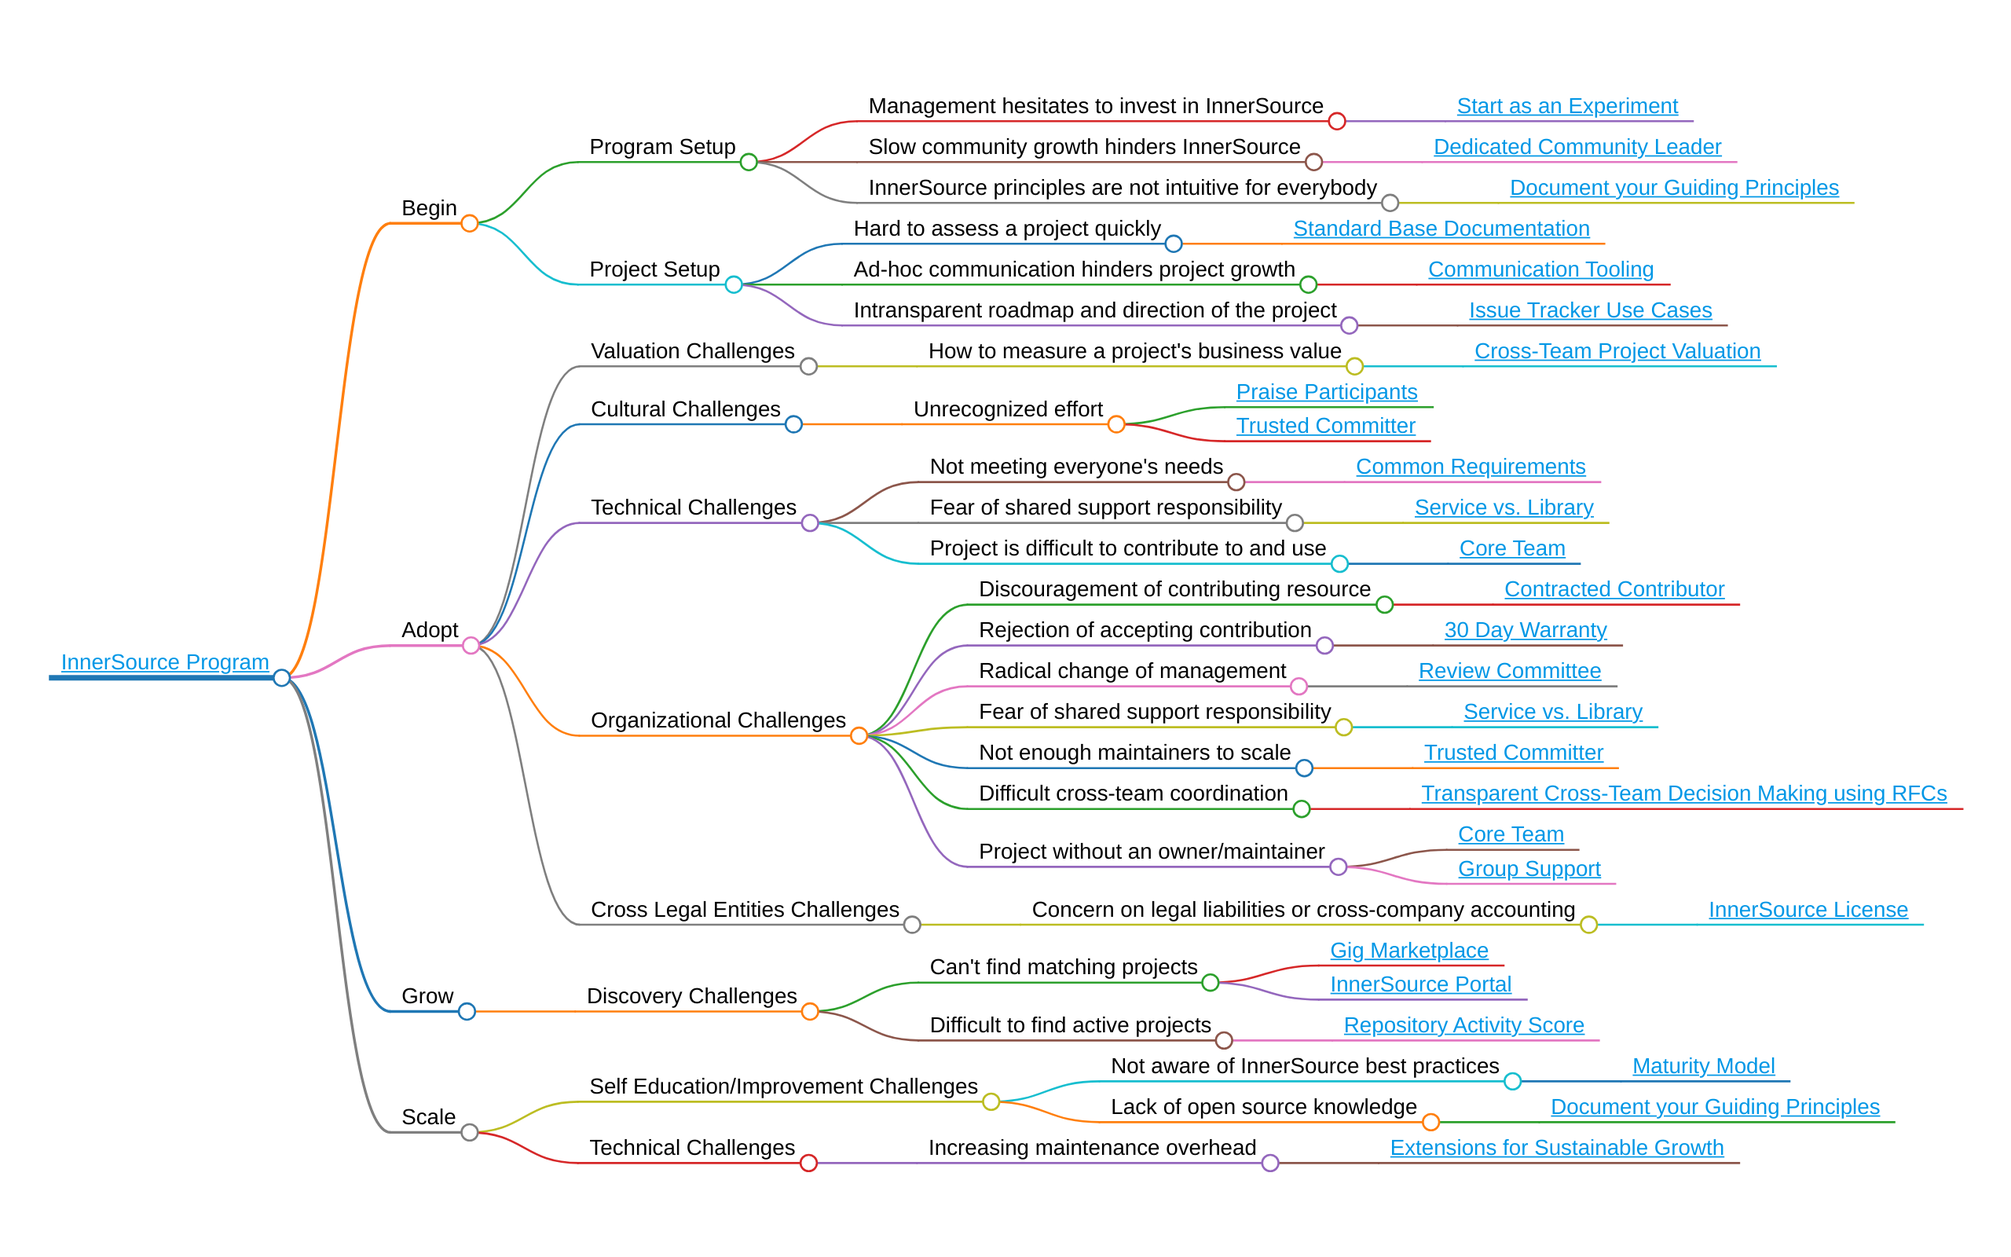
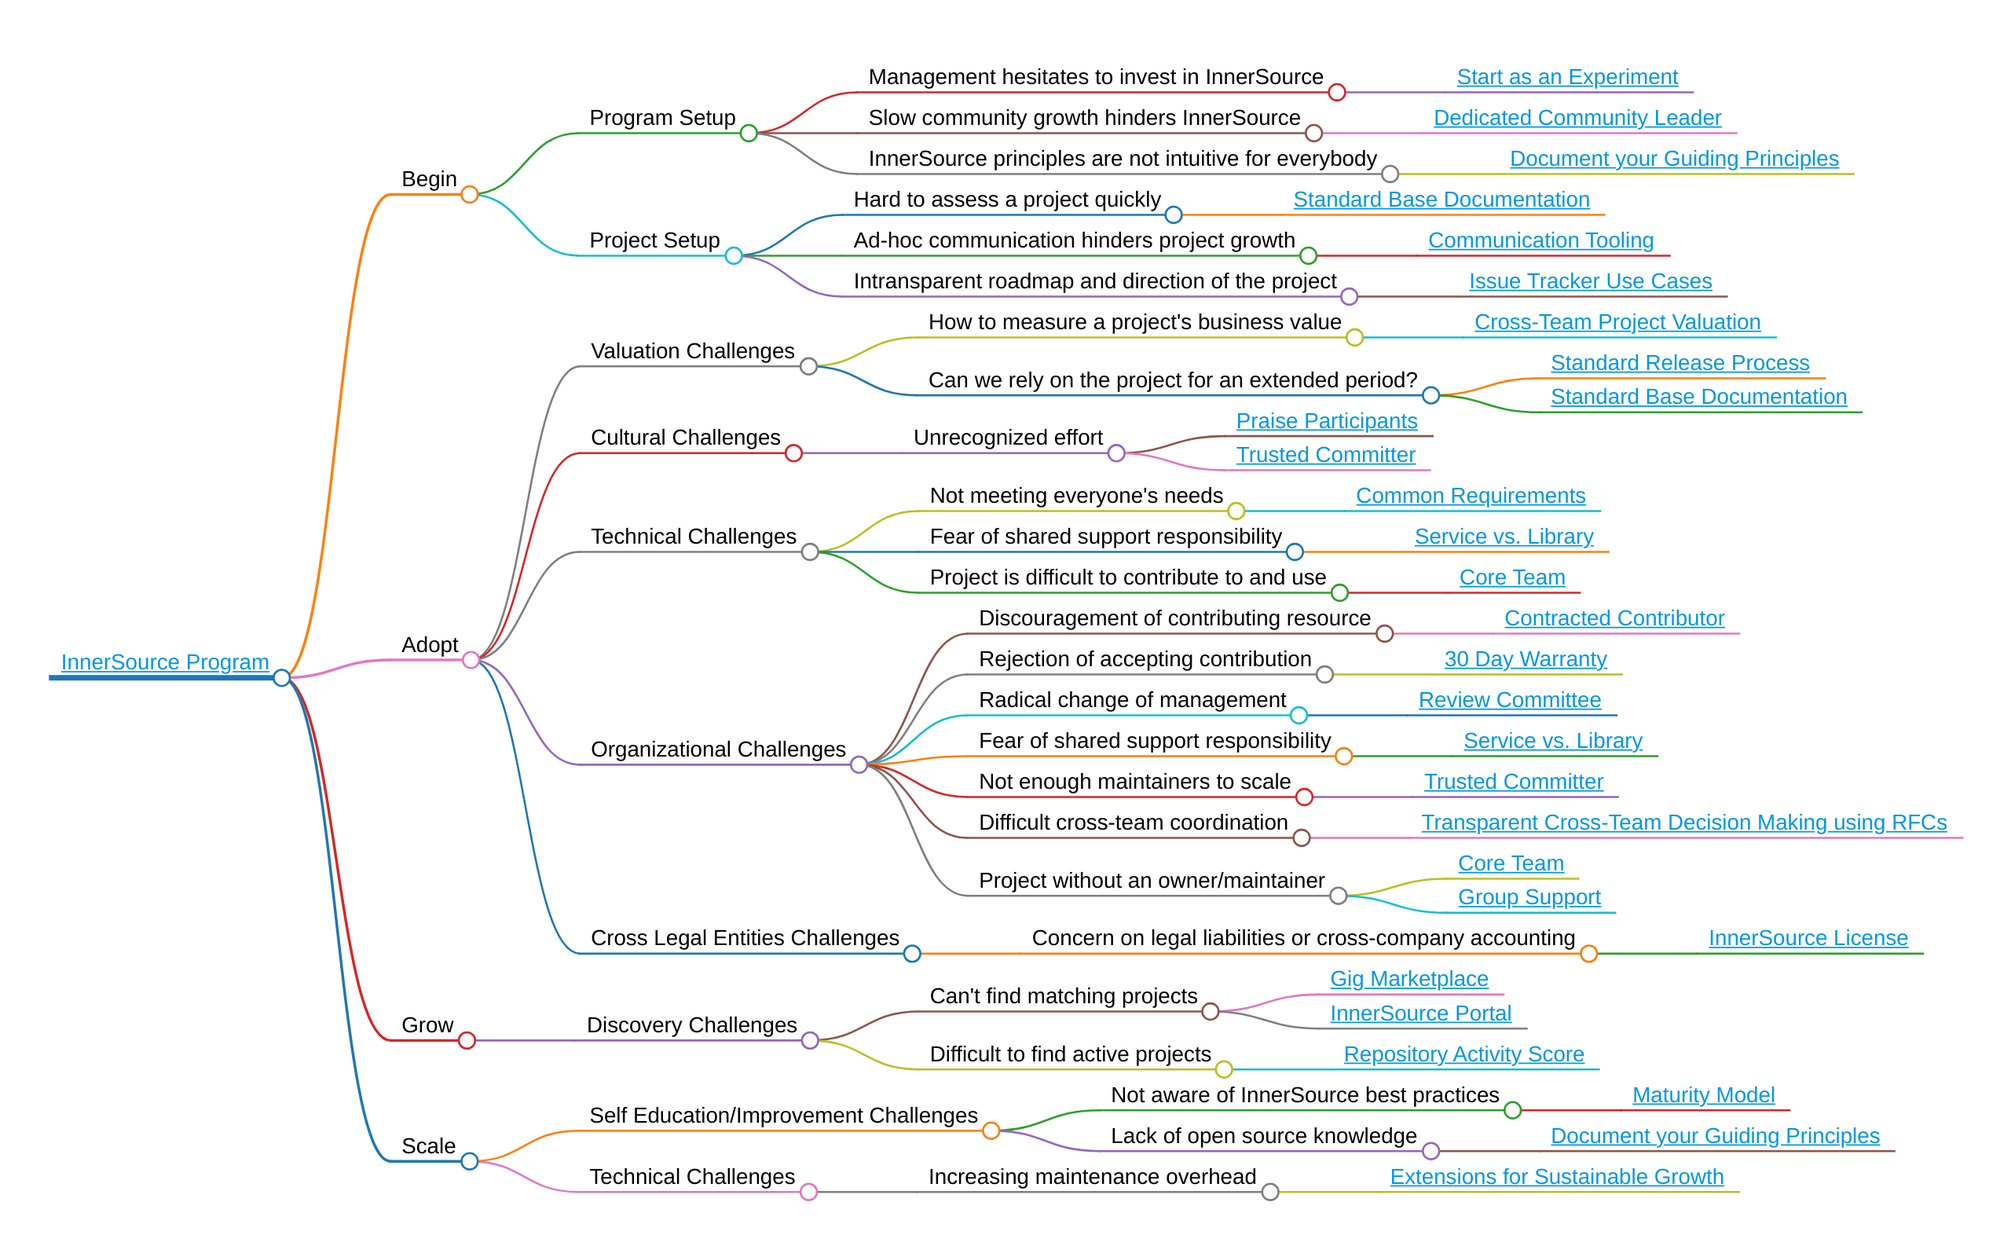
Re-creating markmap and screenshot

diff --git a/pattern-categorization/innersource-program-mind-map.html b/pattern-categorization/innersource-program-mind-map.html
@@ -23,6 +23,6 @@
 <script src="https://cdn.jsdelivr.net/npm/d3@6.7.0"></script><script src="https://cdn.jsdelivr.net/npm/markmap-view@0.13.3"></script><script>((getMarkmap, getOptions, root, jsonOptions) => {
         const markmap = getMarkmap();
         window.mm = markmap.Markmap.create('svg#mindmap', (getOptions || markmap.deriveOptions)(jsonOptions), root);
-      })(() => window.markmap,null,{"type":"heading","depth":1,"payload":{"lines":[0,1]},"content":"<a href=\"https://patterns.innersourcecommons.org/toc\">InnerSource Program</a>","children":[{"type":"heading","depth":2,"payload":{"lines":[2,3]},"content":"Begin","children":[{"type":"heading","depth":3,"payload":{"lines":[4,5]},"content":"Program Setup","children":[{"type":"heading","depth":4,"payload":{"lines":[6,7]},"content":"Management hesitates to invest in InnerSource","children":[{"type":"heading","depth":5,"payload":{"lines":[8,9]},"content":"<a href=\"https://patterns.innersourcecommons.org/p/start-as-experiment\">Start as an Experiment</a>"}]},{"type":"heading","depth":4,"payload":{"lines":[10,11]},"content":"Slow community growth hinders InnerSource","children":[{"type":"heading","depth":5,"payload":{"lines":[12,13]},"content":"<a href=\"https://patterns.innersourcecommons.org/p/dedicated-community-leader\">Dedicated Community Leader</a>"}]},{"type":"heading","depth":4,"payload":{"lines":[14,15]},"content":"InnerSource principles are not intuitive for everybody","children":[{"type":"heading","depth":5,"payload":{"lines":[16,17]},"content":"<a href=\"https://patterns.innersourcecommons.org/p/document-your-guiding-principles\">Document your Guiding Principles</a>"}]}]},{"type":"heading","depth":3,"payload":{"lines":[18,19]},"content":"Project Setup","children":[{"type":"heading","depth":4,"payload":{"lines":[20,21]},"content":"Hard to assess a project quickly","children":[{"type":"heading","depth":5,"payload":{"lines":[22,23]},"content":"<a href=\"https://patterns.innersourcecommons.org/p/base-documentation\">Standard Base Documentation</a>"}]},{"type":"heading","depth":4,"payload":{"lines":[24,25]},"content":"Ad-hoc communication hinders project growth","children":[{"type":"heading","depth":5,"payload":{"lines":[26,27]},"content":"<a href=\"https://patterns.innersourcecommons.org/p/communication-tooling\">Communication Tooling</a>"}]},{"type":"heading","depth":4,"payload":{"lines":[28,29]},"content":"Intransparent roadmap and direction of the project","children":[{"type":"heading","depth":5,"payload":{"lines":[30,31]},"content":"<a href=\"https://patterns.innersourcecommons.org/p/issue-tracker\">Issue Tracker Use Cases</a>"}]}]}]},{"type":"heading","depth":2,"payload":{"lines":[32,33]},"content":"Adopt","children":[{"type":"heading","depth":3,"payload":{"lines":[34,35]},"content":"Valuation Challenges","children":[{"type":"heading","depth":4,"payload":{"lines":[36,37]},"content":"How to measure a project's business value","children":[{"type":"heading","depth":5,"payload":{"lines":[38,39]},"content":"<a href=\"https://patterns.innersourcecommons.org/p/crossteam-project-valuation\">Cross-Team Project Valuation</a>"}]}]},{"type":"heading","depth":3,"payload":{"lines":[40,41]},"content":"Cultural Challenges","children":[{"type":"heading","depth":4,"payload":{"lines":[42,43]},"content":"Unrecognized effort","children":[{"type":"heading","depth":5,"payload":{"lines":[44,45]},"content":"<a href=\"https://patterns.innersourcecommons.org/p/praise-participants\">Praise Participants</a>"},{"type":"heading","depth":5,"payload":{"lines":[46,47]},"content":"<a href=\"https://patterns.innersourcecommons.org/p/trusted-committer\">Trusted Committer</a>"}]}]},{"type":"heading","depth":3,"payload":{"lines":[48,49]},"content":"Technical Challenges","children":[{"type":"heading","depth":4,"payload":{"lines":[50,51]},"content":"Not meeting everyone's needs","children":[{"type":"heading","depth":5,"payload":{"lines":[52,53]},"content":"<a href=\"https://patterns.innersourcecommons.org/p/common-requirements\">Common Requirements</a>"}]},{"type":"heading","depth":4,"payload":{"lines":[54,55]},"content":"Fear of shared support responsibility","children":[{"type":"heading","depth":5,"payload":{"lines":[56,57]},"content":"<a href=\"https://patterns.innersourcecommons.org/p/service-vs-library\">Service vs. Library</a>"}]},{"type":"heading","depth":4,"payload":{"lines":[58,59]},"content":"Project is difficult to contribute to and use","children":[{"type":"heading","depth":5,"payload":{"lines":[60,61]},"content":"<a href=\"https://patterns.innersourcecommons.org/p/core-team\">Core Team</a>"}]}]},{"type":"heading","depth":3,"payload":{"lines":[62,63]},"content":"Organizational Challenges","children":[{"type":"heading","depth":4,"payload":{"lines":[64,65]},"content":"Discouragement of contributing resource","children":[{"type":"heading","depth":5,"payload":{"lines":[66,67]},"content":"<a href=\"https://patterns.innersourcecommons.org/p/contracted-contributor\">Contracted Contributor</a>"}]},{"type":"heading","depth":4,"payload":{"lines":[68,69]},"content":"Rejection of accepting contribution","children":[{"type":"heading","depth":5,"payload":{"lines":[70,71]},"content":"<a href=\"https://patterns.innersourcecommons.org/p/30-day-warranty\">30 Day Warranty</a>"}]},{"type":"heading","depth":4,"payload":{"lines":[72,73]},"content":"Radical change of management","children":[{"type":"heading","depth":5,"payload":{"lines":[74,75]},"content":"<a href=\"https://patterns.innersourcecommons.org/p/review-committee\">Review Committee</a>"}]},{"type":"heading","depth":4,"payload":{"lines":[76,77]},"content":"Fear of shared support responsibility","children":[{"type":"heading","depth":5,"payload":{"lines":[78,79]},"content":"<a href=\"https://patterns.innersourcecommons.org/p/service-vs-library\">Service vs. Library</a>"}]},{"type":"heading","depth":4,"payload":{"lines":[80,81]},"content":"Not enough maintainers to scale","children":[{"type":"heading","depth":5,"payload":{"lines":[82,83]},"content":"<a href=\"https://patterns.innersourcecommons.org/p/trusted-committer\">Trusted Committer</a>"}]},{"type":"heading","depth":4,"payload":{"lines":[84,85]},"content":"Difficult cross-team coordination","children":[{"type":"heading","depth":5,"payload":{"lines":[86,87]},"content":"<a href=\"https://patterns.innersourcecommons.org/p/transparent-cross-team-decision-making-using-rfcs\">Transparent Cross-Team Decision Making using RFCs</a>"}]},{"type":"heading","depth":4,"payload":{"lines":[88,89]},"content":"Project without an owner/maintainer","children":[{"type":"heading","depth":5,"payload":{"lines":[90,91]},"content":"<a href=\"https://patterns.innersourcecommons.org/p/core-team\">Core Team</a>"},{"type":"heading","depth":5,"payload":{"lines":[92,93]},"content":"<a href=\"https://patterns.innersourcecommons.org/p/group-support\">Group Support</a>"}]}]},{"type":"heading","depth":3,"payload":{"lines":[94,95]},"content":"Cross Legal Entities Challenges","children":[{"type":"heading","depth":4,"payload":{"lines":[96,97]},"content":"Concern on legal liabilities or cross-company accounting","children":[{"type":"heading","depth":5,"payload":{"lines":[98,99]},"content":"<a href=\"https://patterns.innersourcecommons.org/p/innersource-license\">InnerSource License</a>"}]}]}]},{"type":"heading","depth":2,"payload":{"lines":[100,101]},"content":"Grow","children":[{"type":"heading","depth":3,"payload":{"lines":[102,103]},"content":"Discovery Challenges","children":[{"type":"heading","depth":4,"payload":{"lines":[104,105]},"content":"Can't find matching projects","children":[{"type":"heading","depth":5,"payload":{"lines":[106,107]},"content":"<a href=\"https://patterns.innersourcecommons.org/p/gig-marketplace\">Gig Marketplace</a>"},{"type":"heading","depth":5,"payload":{"lines":[108,109]},"content":"<a href=\"https://patterns.innersourcecommons.org/p/innersource-portal\">InnerSource Portal</a>"}]},{"type":"heading","depth":4,"payload":{"lines":[110,111]},"content":"Difficult to find active projects","children":[{"type":"heading","depth":5,"payload":{"lines":[112,113]},"content":"<a href=\"https://patterns.innersourcecommons.org/p/repository-activity-score\">Repository Activity Score</a>"}]}]}]},{"type":"heading","depth":2,"payload":{"lines":[114,115]},"content":"Scale","children":[{"type":"heading","depth":3,"payload":{"lines":[116,117]},"content":"Self Education/Improvement Challenges","children":[{"type":"heading","depth":4,"payload":{"lines":[118,119]},"content":"Not aware of InnerSource best practices","children":[{"type":"heading","depth":5,"payload":{"lines":[120,121]},"content":"<a href=\"https://patterns.innersourcecommons.org/p/maturity-model\">Maturity Model</a>"}]},{"type":"heading","depth":4,"payload":{"lines":[122,123]},"content":"Lack of open source knowledge","children":[{"type":"heading","depth":5,"payload":{"lines":[124,125]},"content":"<a href=\"https://patterns.innersourcecommons.org/p/document-your-guiding-principles\">Document your Guiding Principles</a>"}]}]},{"type":"heading","depth":3,"payload":{"lines":[126,127]},"content":"Technical Challenges","children":[{"type":"heading","depth":4,"payload":{"lines":[128,129]},"content":"Increasing maintenance overhead","children":[{"type":"heading","depth":5,"payload":{"lines":[130,131]},"content":"<a href=\"https://patterns.innersourcecommons.org/p/extensions-for-sustainable-growth\">Extensions for Sustainable Growth</a>"}]}]}]}]},null)</script>
+      })(() => window.markmap,null,{"type":"heading","depth":1,"payload":{"lines":[0,1]},"content":"<a href=\"https://patterns.innersourcecommons.org/toc\">InnerSource Program</a>","children":[{"type":"heading","depth":2,"payload":{"lines":[2,3]},"content":"Begin","children":[{"type":"heading","depth":3,"payload":{"lines":[4,5]},"content":"Program Setup","children":[{"type":"heading","depth":4,"payload":{"lines":[6,7]},"content":"Management hesitates to invest in InnerSource","children":[{"type":"heading","depth":5,"payload":{"lines":[8,9]},"content":"<a href=\"https://patterns.innersourcecommons.org/p/start-as-experiment\">Start as an Experiment</a>"}]},{"type":"heading","depth":4,"payload":{"lines":[10,11]},"content":"Slow community growth hinders InnerSource","children":[{"type":"heading","depth":5,"payload":{"lines":[12,13]},"content":"<a href=\"https://patterns.innersourcecommons.org/p/dedicated-community-leader\">Dedicated Community Leader</a>"}]},{"type":"heading","depth":4,"payload":{"lines":[14,15]},"content":"InnerSource principles are not intuitive for everybody","children":[{"type":"heading","depth":5,"payload":{"lines":[16,17]},"content":"<a href=\"https://patterns.innersourcecommons.org/p/document-your-guiding-principles\">Document your Guiding Principles</a>"}]}]},{"type":"heading","depth":3,"payload":{"lines":[18,19]},"content":"Project Setup","children":[{"type":"heading","depth":4,"payload":{"lines":[20,21]},"content":"Hard to assess a project quickly","children":[{"type":"heading","depth":5,"payload":{"lines":[22,23]},"content":"<a href=\"https://patterns.innersourcecommons.org/p/base-documentation\">Standard Base Documentation</a>"}]},{"type":"heading","depth":4,"payload":{"lines":[24,25]},"content":"Ad-hoc communication hinders project growth","children":[{"type":"heading","depth":5,"payload":{"lines":[26,27]},"content":"<a href=\"https://patterns.innersourcecommons.org/p/communication-tooling\">Communication Tooling</a>"}]},{"type":"heading","depth":4,"payload":{"lines":[28,29]},"content":"Intransparent roadmap and direction of the project","children":[{"type":"heading","depth":5,"payload":{"lines":[30,31]},"content":"<a href=\"https://patterns.innersourcecommons.org/p/issue-tracker\">Issue Tracker Use Cases</a>"}]}]}]},{"type":"heading","depth":2,"payload":{"lines":[32,33]},"content":"Adopt","children":[{"type":"heading","depth":3,"payload":{"lines":[34,35]},"content":"Valuation Challenges","children":[{"type":"heading","depth":4,"payload":{"lines":[36,37]},"content":"How to measure a project's business value","children":[{"type":"heading","depth":5,"payload":{"lines":[38,39]},"content":"<a href=\"https://patterns.innersourcecommons.org/p/crossteam-project-valuation\">Cross-Team Project Valuation</a>"}]},{"type":"heading","depth":4,"payload":{"lines":[40,41]},"content":"Can we rely on the project for an extended period?","children":[{"type":"heading","depth":5,"payload":{"lines":[42,43]},"content":"<a href=\"https://patterns.innersourcecommons.org/p/release-process\">Standard Release Process</a>"},{"type":"heading","depth":5,"payload":{"lines":[44,45]},"content":"<a href=\"https://patterns.innersourcecommons.org/p/base-documentation\">Standard Base Documentation</a>"}]}]},{"type":"heading","depth":3,"payload":{"lines":[46,47]},"content":"Cultural Challenges","children":[{"type":"heading","depth":4,"payload":{"lines":[48,49]},"content":"Unrecognized effort","children":[{"type":"heading","depth":5,"payload":{"lines":[50,51]},"content":"<a href=\"https://patterns.innersourcecommons.org/p/praise-participants\">Praise Participants</a>"},{"type":"heading","depth":5,"payload":{"lines":[52,53]},"content":"<a href=\"https://patterns.innersourcecommons.org/p/trusted-committer\">Trusted Committer</a>"}]}]},{"type":"heading","depth":3,"payload":{"lines":[54,55]},"content":"Technical Challenges","children":[{"type":"heading","depth":4,"payload":{"lines":[56,57]},"content":"Not meeting everyone's needs","children":[{"type":"heading","depth":5,"payload":{"lines":[58,59]},"content":"<a href=\"https://patterns.innersourcecommons.org/p/common-requirements\">Common Requirements</a>"}]},{"type":"heading","depth":4,"payload":{"lines":[60,61]},"content":"Fear of shared support responsibility","children":[{"type":"heading","depth":5,"payload":{"lines":[62,63]},"content":"<a href=\"https://patterns.innersourcecommons.org/p/service-vs-library\">Service vs. Library</a>"}]},{"type":"heading","depth":4,"payload":{"lines":[64,65]},"content":"Project is difficult to contribute to and use","children":[{"type":"heading","depth":5,"payload":{"lines":[66,67]},"content":"<a href=\"https://patterns.innersourcecommons.org/p/core-team\">Core Team</a>"}]}]},{"type":"heading","depth":3,"payload":{"lines":[68,69]},"content":"Organizational Challenges","children":[{"type":"heading","depth":4,"payload":{"lines":[70,71]},"content":"Discouragement of contributing resource","children":[{"type":"heading","depth":5,"payload":{"lines":[72,73]},"content":"<a href=\"https://patterns.innersourcecommons.org/p/contracted-contributor\">Contracted Contributor</a>"}]},{"type":"heading","depth":4,"payload":{"lines":[74,75]},"content":"Rejection of accepting contribution","children":[{"type":"heading","depth":5,"payload":{"lines":[76,77]},"content":"<a href=\"https://patterns.innersourcecommons.org/p/30-day-warranty\">30 Day Warranty</a>"}]},{"type":"heading","depth":4,"payload":{"lines":[78,79]},"content":"Radical change of management","children":[{"type":"heading","depth":5,"payload":{"lines":[80,81]},"content":"<a href=\"https://patterns.innersourcecommons.org/p/review-committee\">Review Committee</a>"}]},{"type":"heading","depth":4,"payload":{"lines":[82,83]},"content":"Fear of shared support responsibility","children":[{"type":"heading","depth":5,"payload":{"lines":[84,85]},"content":"<a href=\"https://patterns.innersourcecommons.org/p/service-vs-library\">Service vs. Library</a>"}]},{"type":"heading","depth":4,"payload":{"lines":[86,87]},"content":"Not enough maintainers to scale","children":[{"type":"heading","depth":5,"payload":{"lines":[88,89]},"content":"<a href=\"https://patterns.innersourcecommons.org/p/trusted-committer\">Trusted Committer</a>"}]},{"type":"heading","depth":4,"payload":{"lines":[90,91]},"content":"Difficult cross-team coordination","children":[{"type":"heading","depth":5,"payload":{"lines":[92,93]},"content":"<a href=\"https://patterns.innersourcecommons.org/p/transparent-cross-team-decision-making-using-rfcs\">Transparent Cross-Team Decision Making using RFCs</a>"}]},{"type":"heading","depth":4,"payload":{"lines":[94,95]},"content":"Project without an owner/maintainer","children":[{"type":"heading","depth":5,"payload":{"lines":[96,97]},"content":"<a href=\"https://patterns.innersourcecommons.org/p/core-team\">Core Team</a>"},{"type":"heading","depth":5,"payload":{"lines":[98,99]},"content":"<a href=\"https://patterns.innersourcecommons.org/p/group-support\">Group Support</a>"}]}]},{"type":"heading","depth":3,"payload":{"lines":[100,101]},"content":"Cross Legal Entities Challenges","children":[{"type":"heading","depth":4,"payload":{"lines":[102,103]},"content":"Concern on legal liabilities or cross-company accounting","children":[{"type":"heading","depth":5,"payload":{"lines":[104,105]},"content":"<a href=\"https://patterns.innersourcecommons.org/p/innersource-license\">InnerSource License</a>"}]}]}]},{"type":"heading","depth":2,"payload":{"lines":[106,107]},"content":"Grow","children":[{"type":"heading","depth":3,"payload":{"lines":[108,109]},"content":"Discovery Challenges","children":[{"type":"heading","depth":4,"payload":{"lines":[110,111]},"content":"Can't find matching projects","children":[{"type":"heading","depth":5,"payload":{"lines":[112,113]},"content":"<a href=\"https://patterns.innersourcecommons.org/p/gig-marketplace\">Gig Marketplace</a>"},{"type":"heading","depth":5,"payload":{"lines":[114,115]},"content":"<a href=\"https://patterns.innersourcecommons.org/p/innersource-portal\">InnerSource Portal</a>"}]},{"type":"heading","depth":4,"payload":{"lines":[116,117]},"content":"Difficult to find active projects","children":[{"type":"heading","depth":5,"payload":{"lines":[118,119]},"content":"<a href=\"https://patterns.innersourcecommons.org/p/repository-activity-score\">Repository Activity Score</a>"}]}]}]},{"type":"heading","depth":2,"payload":{"lines":[120,121]},"content":"Scale","children":[{"type":"heading","depth":3,"payload":{"lines":[122,123]},"content":"Self Education/Improvement Challenges","children":[{"type":"heading","depth":4,"payload":{"lines":[124,125]},"content":"Not aware of InnerSource best practices","children":[{"type":"heading","depth":5,"payload":{"lines":[126,127]},"content":"<a href=\"https://patterns.innersourcecommons.org/p/maturity-model\">Maturity Model</a>"}]},{"type":"heading","depth":4,"payload":{"lines":[128,129]},"content":"Lack of open source knowledge","children":[{"type":"heading","depth":5,"payload":{"lines":[130,131]},"content":"<a href=\"https://patterns.innersourcecommons.org/p/document-your-guiding-principles\">Document your Guiding Principles</a>"}]}]},{"type":"heading","depth":3,"payload":{"lines":[132,133]},"content":"Technical Challenges","children":[{"type":"heading","depth":4,"payload":{"lines":[134,135]},"content":"Increasing maintenance overhead","children":[{"type":"heading","depth":5,"payload":{"lines":[136,137]},"content":"<a href=\"https://patterns.innersourcecommons.org/p/extensions-for-sustainable-growth\">Extensions for Sustainable Growth</a>"}]}]}]}]},null)</script>
 </body>
 </html>
